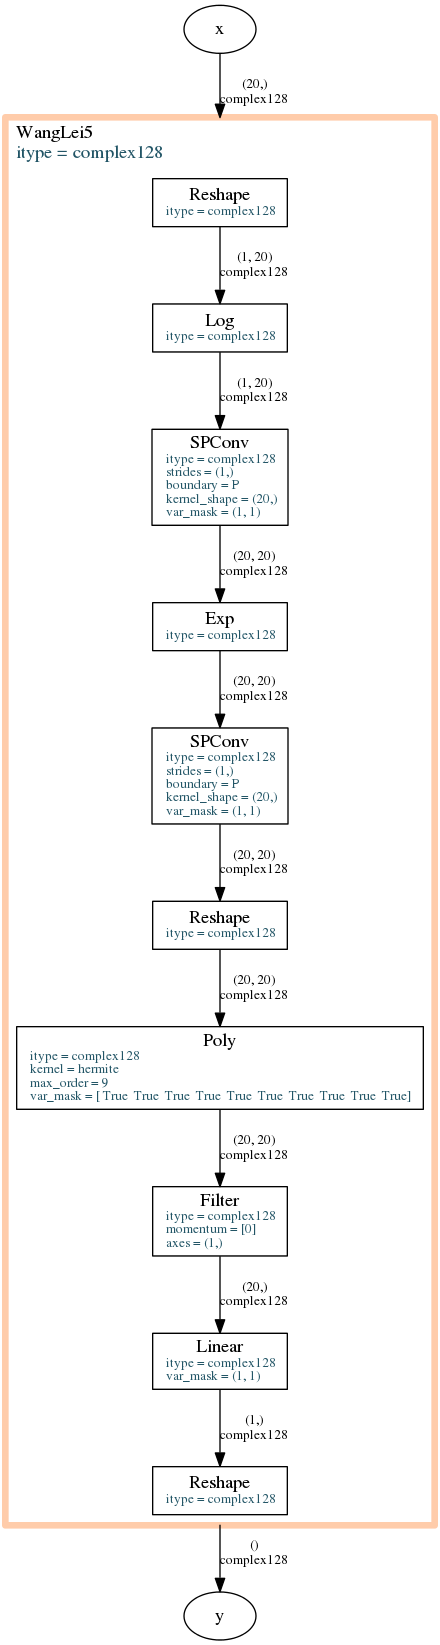
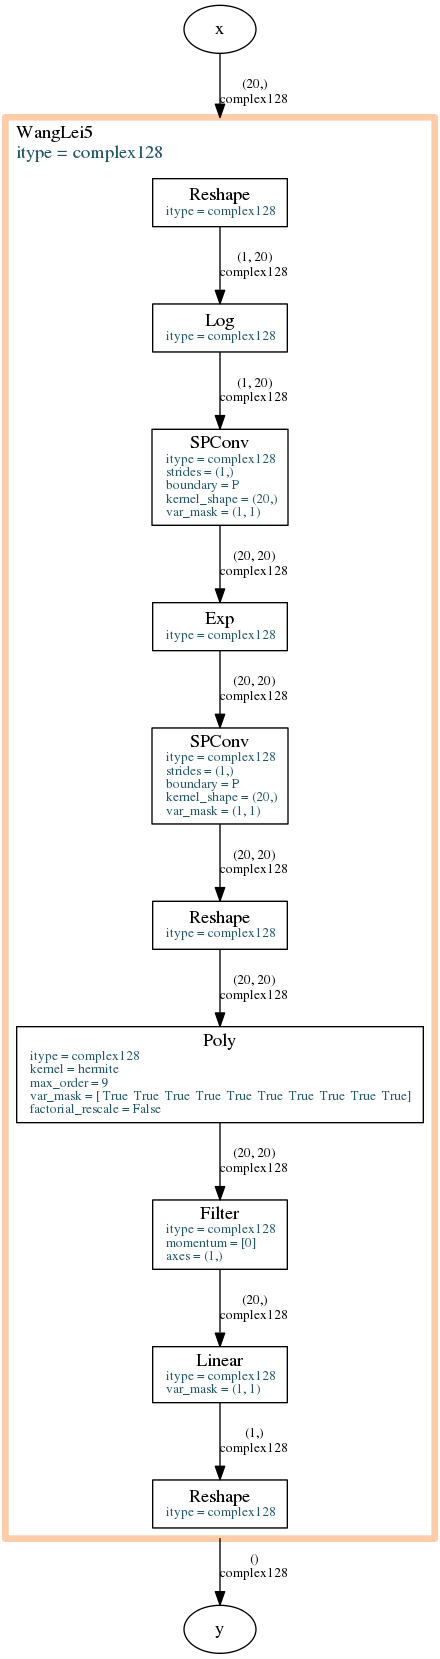
...

diff --git a/models/wanglei3.py b/models/wanglei3.py
@@ -57,10 +57,11 @@ class WangLei3(StateNN):
             elif nonlinear=='sinh':
                 self.add_layer(functions.Sinh)
             elif nonlinear in layers.Poly.kernel_dict:
-                self.add_layer(layers.Poly, params=eta*typed_randn('complex128', (poly_order,)), kernel=nonlinear)
+                self.add_layer(layers.Poly, params=eta*typed_randn('complex128', (poly_order,)), kernel=nonlinear, factorial_rescale=factorial_rescale)
             else:
                 raise Exception
             self.add_layer(functions.Filter, axes=(-1,), momentum=momentum)
+            self.add_layer(layers.Poly, params=eta*typed_randn('complex128', (poly_order,)), kernel=nonlinear, factorial_rescale=factorial_rescale)
         if version=='const-linear': 
             self.add_layer(Linear, weight=np.array([[-1,-1,1,1]],dtype=itype, order='F'),
                     bias=np.zeros((1,),dtype=itype),var_mask=(0,0))
@@ -77,3 +78,4 @@ class WangLei3(StateNN):
         else:
             raise ValueError('version %s not exist'%version)
         self.add_layer(functions.Reshape, output_shape=())
+        self.add_layer(layers.Poly, params=eta*typed_randn('complex128', (poly_order,)), kernel=nonlinear, factorial_rescale=factorial_rescale)

diff --git a/models/wanglei5.py b/models/wanglei5.py
@@ -74,7 +74,7 @@ class WangLei5(StateNN):
         elif nonlinear=='sinh':
             self.add_layer(functions.Sinh)
         elif nonlinear in layers.Poly.kernel_dict:
-            self.add_layer(layers.Poly, params=eta1*typed_uniform('complex128', (poly_order,)), kernel=nonlinear)
+            self.add_layer(layers.Poly, params=eta0*typed_uniform('complex128', (poly_order,)), kernel=nonlinear)
         else:
             raise Exception
         self.add_layer(functions.Filter, axes=(-1,), momentum=momentum)

diff --git a/benchmarks/1d20p8/config.py b/benchmarks/1d20p8/config.py
@@ -23,6 +23,6 @@ def modifyconfig_and_getnn(config, bench_id):
     rbm = WangLei5(input_shape=tuple(config['hamiltonian']['size']), num_features=num_feature_list[bench_id],
             itype='complex128', stride=1, K=K_list[bench_id],
             usesum=usesum_list[bench_id], nonlinear=nonlinear_list[bench_id],
-            momentum=momentum_list[bench_id], eta0=0.05,
+            momentum=momentum_list[bench_id], eta1=1e-3,
             )
     return rbm
